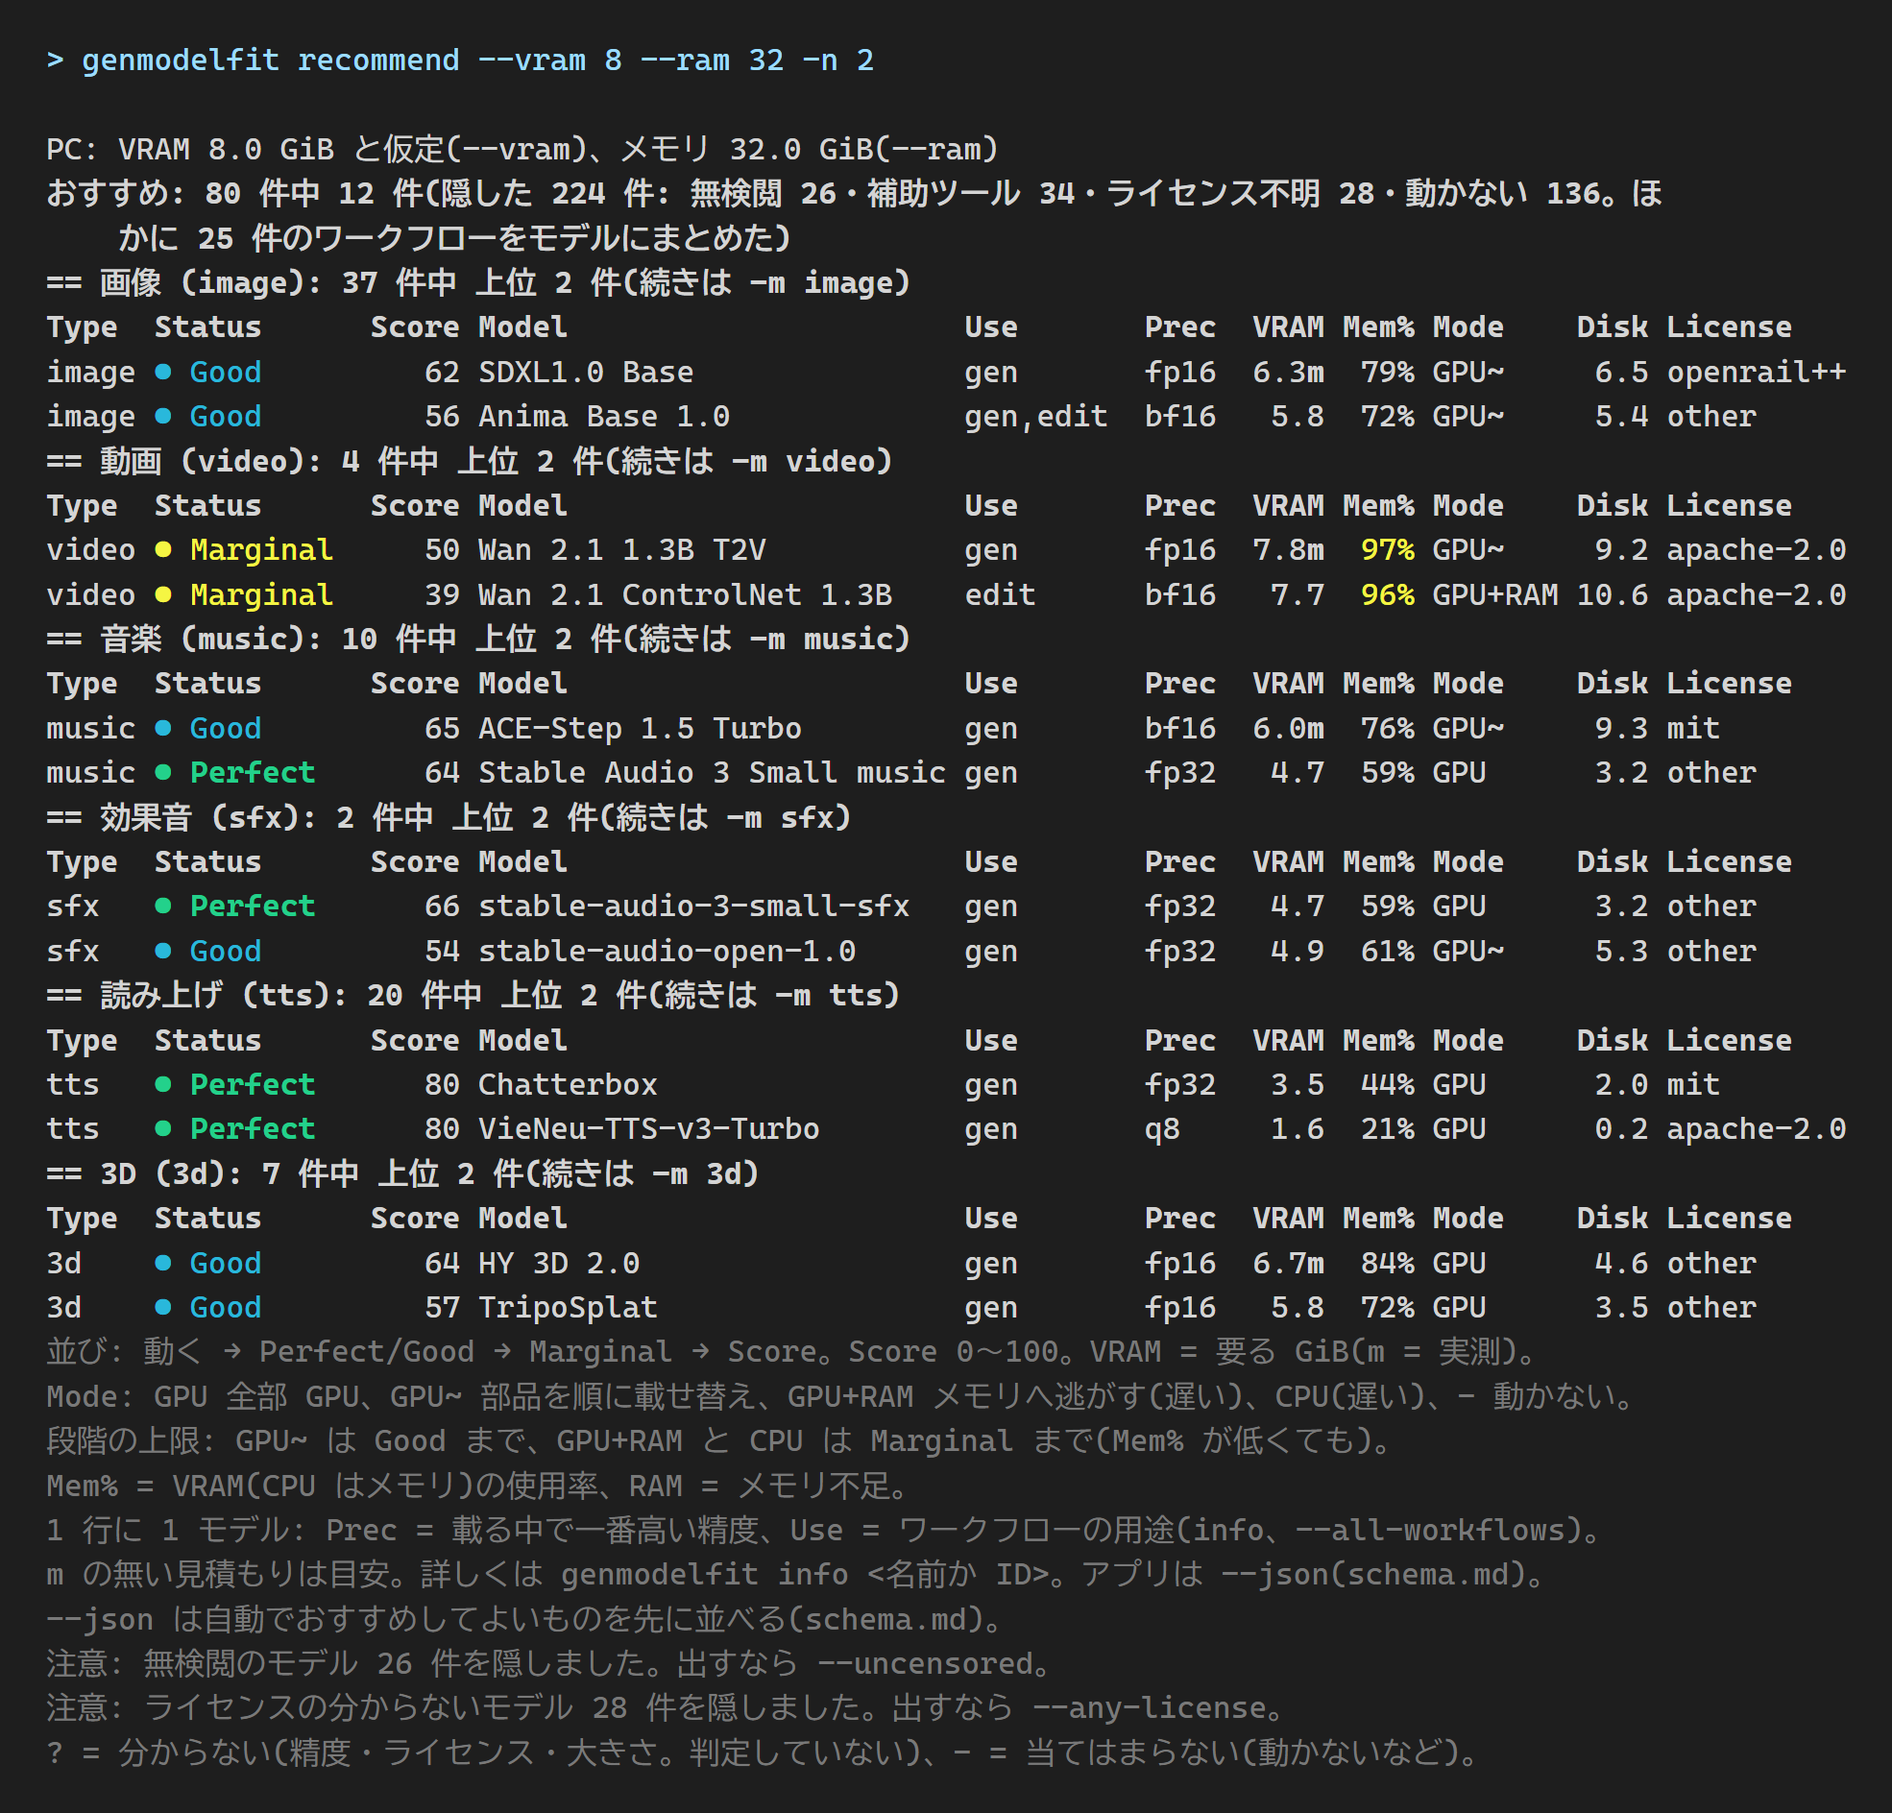
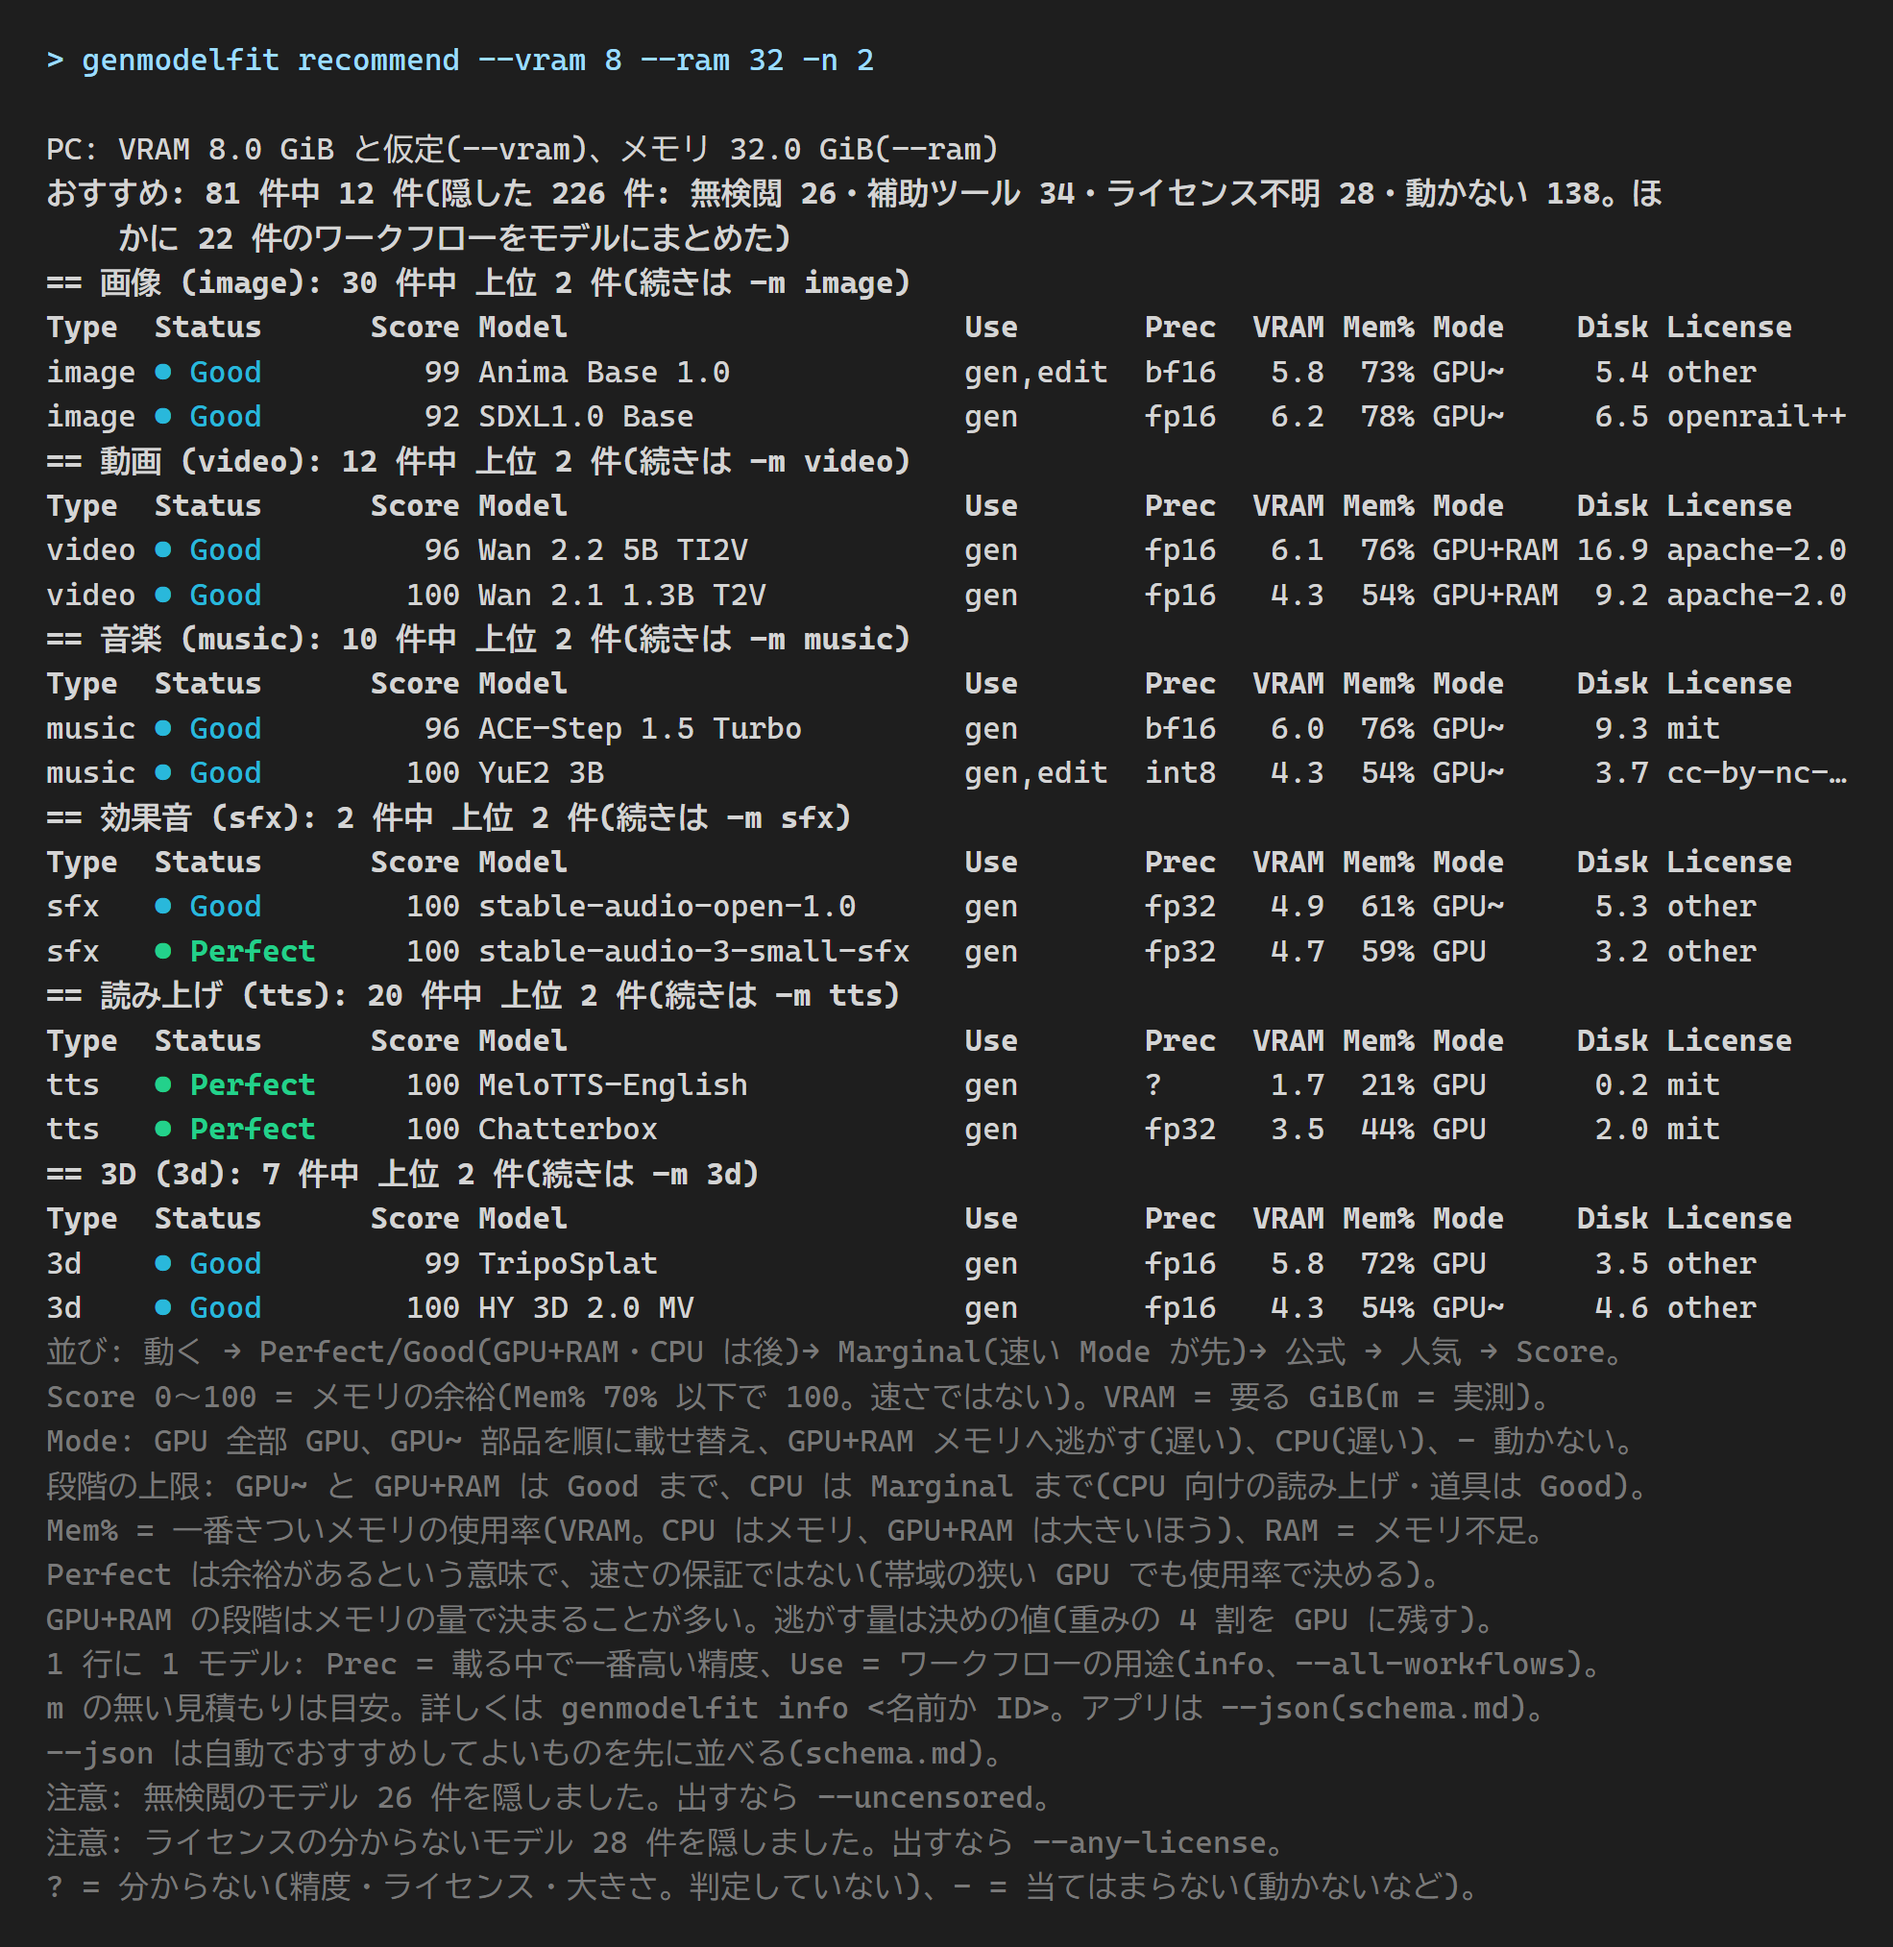
docs: README の画像を 0.11.0 の表で撮り直し、GPU を架空の Ada 世代に差し替える(#89)
tools/screenshots.py が撮る PC の GPU 検出を決まった架空の GPU に差し替え(SIM_GPU)、本物の GPU が写らないようにした。
README の説明も、撮った PC の GPU ではなく架空の GPU だと書き直した。

Claude-Session: https://claude.ai/code/session_01N6iuFaiY1HGGoFZWYvMFuT

Changed region(s): [[0.0, 0.0312, 0.9909, 1.0]]

diff --git a/tools/screenshots.py b/tools/screenshots.py
@@ -10,7 +10,9 @@
 
 出力に色を付けて受け取り、HTML にして Edge か Chrome の headless で撮り、余白を切る。
 全角の字は 2 桁の枠に置くので、字体によらず表の列がそろう。
---vram / --ram は量だけを変える。GPU の世代(使える精度)は撮る PC のもの(docs/hardware.md)。
+--vram / --ram は量だけを変えるので、GPU の世代(使える精度)は撮る PC のものになってしまう(docs/hardware.md)。
+そこで画像では GPU の検出を決まった架空の GPU(Ada 世代: bf16・fp8 とも使える)に差し替え、撮る PC の GPU が
+写らないようにする(SIM_GPU)。「この PC そのもの」の画像(--all の *-this-pc)だけ本物を使う。
 Pillow は撮るときだけ使う(genmodelfit の依存には入れない)。
 """
 
@@ -79,9 +81,16 @@ font-family:"Cascadia Mono",Consolas,"BIZ UDGothic","MS Gothic",monospace;white-
 font-family:"BIZ UDGothic","MS Gothic","Yu Gothic",monospace}}
 .cmd{{color:#9cdcfe}}"""
 # Windows でパイプに出すと rich が古い端末とみなして色を外すので、その判定だけ切って CLI を動かす
+# 撮る PC の GPU を写さないための架空の GPU(世代だけ決めた汎用の名前。ComfyUI が Ada で選ぶ bf16 の計算)
+SIM_GPU = (
+    "import genmodelfit.hardware as h; from genmodelfit.models import Gpu; "
+    "h.detect_gpus = lambda *a, **k: ([Gpu(name='Simulated GPU (Ada)', vendor='nvidia', vram_total_gb=8.0, "
+    "backend='cuda', compute_capability='8.9', compute_capability_source='name', arch='ada', "
+    "compute_dtype='bf16', bf16=True, fp8=True)], []); "
+)
 BOOT = (
     "import sys, runpy, rich.console as c; c.detect_legacy_windows = lambda: False; "
-    "sys.argv = ['genmodelfit', *sys.argv[1:]]; runpy.run_module('genmodelfit', run_name='__main__')"
+    "{sim}sys.argv = ['genmodelfit', *sys.argv[1:]]; runpy.run_module('genmodelfit', run_name='__main__')"
 )
 
 
@@ -101,12 +110,12 @@ def browser() -> str:
     sys.exit("Edge か Chrome が見つかりません")
 
 
-def run(args: list[str], lang: str) -> str:
+def run(args: list[str], lang: str, simulate: bool = True) -> str:
     env = {k: v for k, v in os.environ.items() if k not in ("NO_COLOR", "GENMODELFIT_COMFYUI_DIR")}
     env.update(FORCE_COLOR="1", COLUMNS=str(COLS), PYTHONIOENCODING="utf-8", PYTHONUTF8="1")
     env["GENMODELFIT_LANG"] = lang
     p = subprocess.run(
-        [sys.executable, "-c", BOOT, *args],
+        [sys.executable, "-c", BOOT.replace("{sim}", SIM_GPU if simulate else ""), *args],
         capture_output=True,
         env=env,
         encoding="utf-8",
@@ -191,7 +200,7 @@ def main() -> int:
             for lang, suffix in (("en", ""), ("ja", ".ja")):
                 png = out / f"{name}{suffix}.png"
                 try:
-                    text = run(args, lang)
+                    text = run(args, lang, simulate=not name.endswith("-this-pc"))
                     plain = Text.from_ansi(text).plain.lower()
                     hit = sorted(w for w in secrets if w.lower() in plain)
                     if hit:

diff --git a/README.md b/README.md
@@ -13,7 +13,8 @@ It is **not** an official llmfit project or fork. Status: alpha
 ![genmodelfit recommend on a PC with 8 GiB VRAM and 32 GiB RAM](https://raw.githubusercontent.com/laxshmate/genmodelfit/main/docs/images/recommend.png)
 
 The top of `genmodelfit recommend --vram 8 --ram 32 -n 2` (model list as of 2026-10-21). The list is updated weekly, so the models and counts change.
-`--vram` changes only the amount of VRAM; the GPU generation stays that of the PC that took the picture (an RTX 3070).
+`--vram` changes only the amount of VRAM, and the GPU generation stays that of the PC it runs on. In the picture the GPU is
+a simulated Ada-generation one (bf16 and fp8 usable), not the PC that took it.
 From the RTX 30 series on (30, 40, 50), the generation does not change the estimate, so this is also how to check a GPU before
 you buy it (add `--ram` for its system RAM).
 The picture is made by [tools/screenshots.py](https://github.com/laxshmate/genmodelfit/blob/main/tools/screenshots.py).
